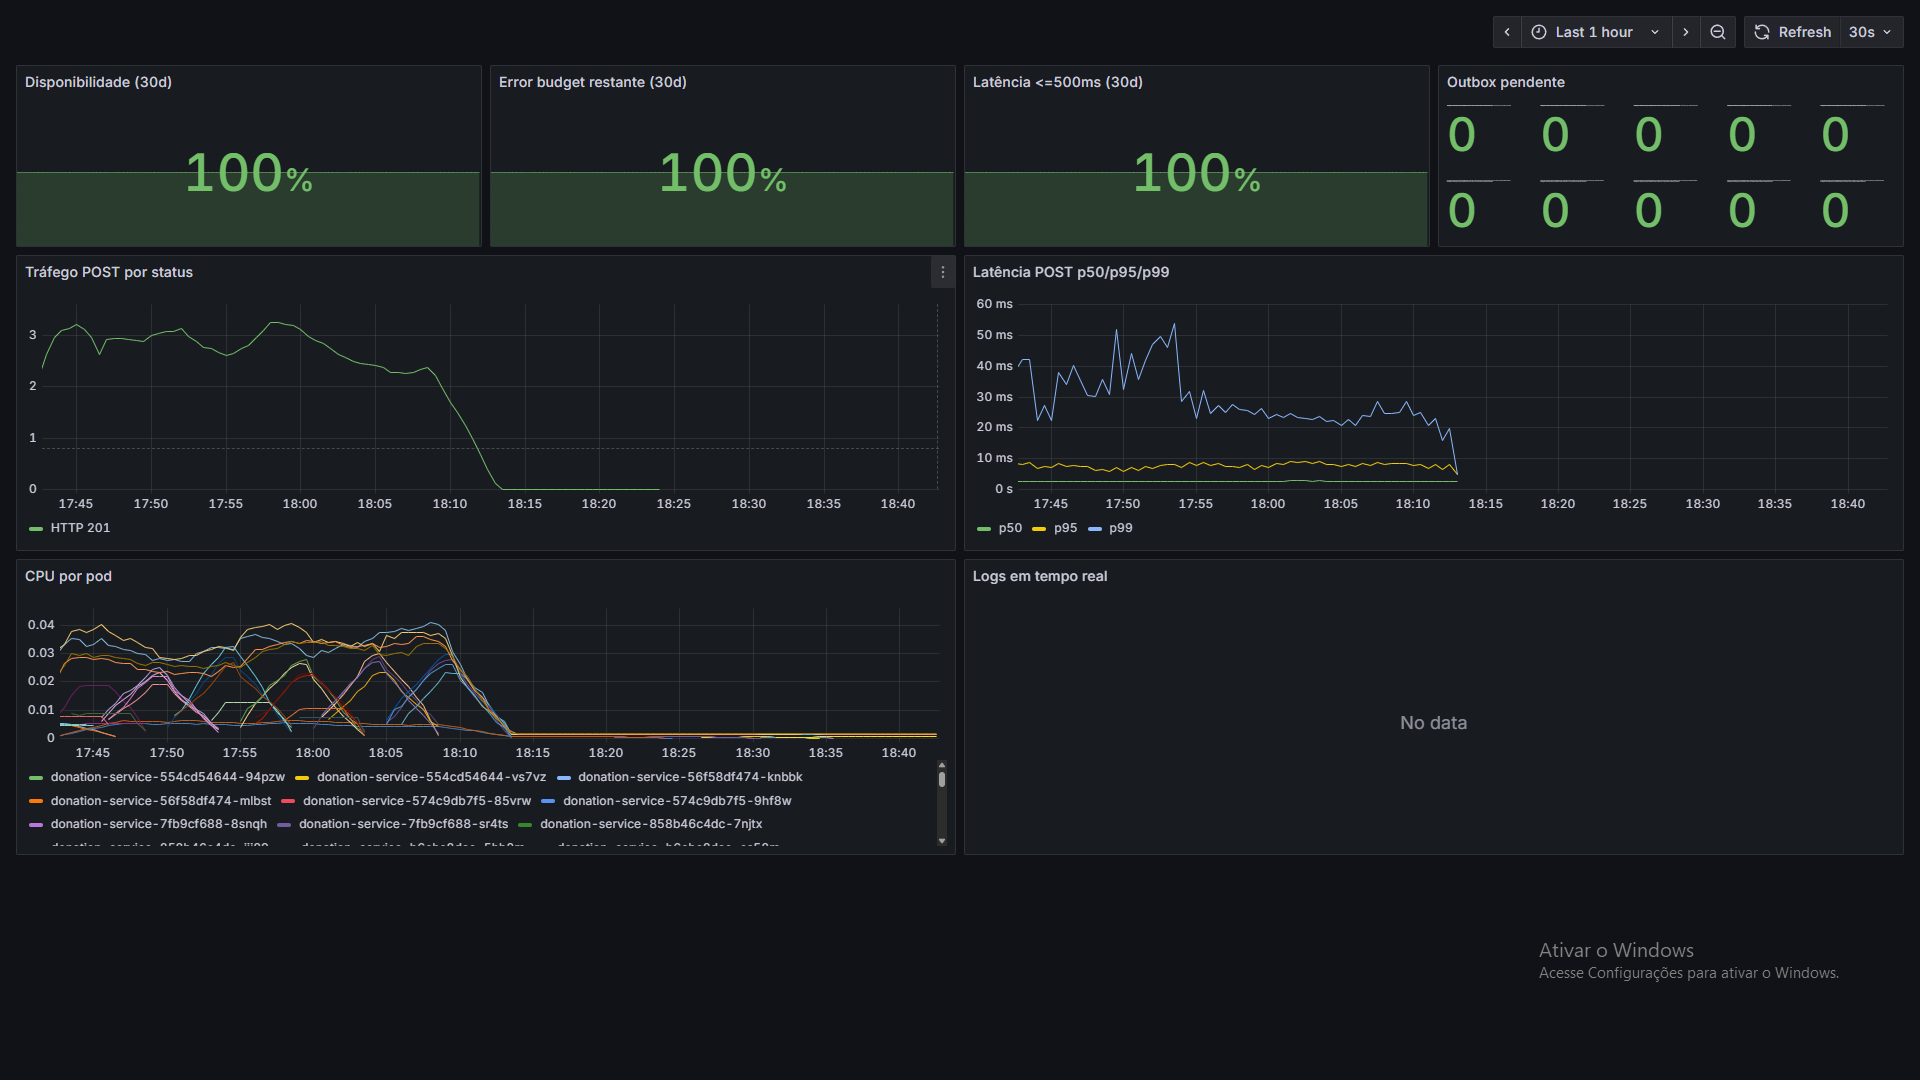
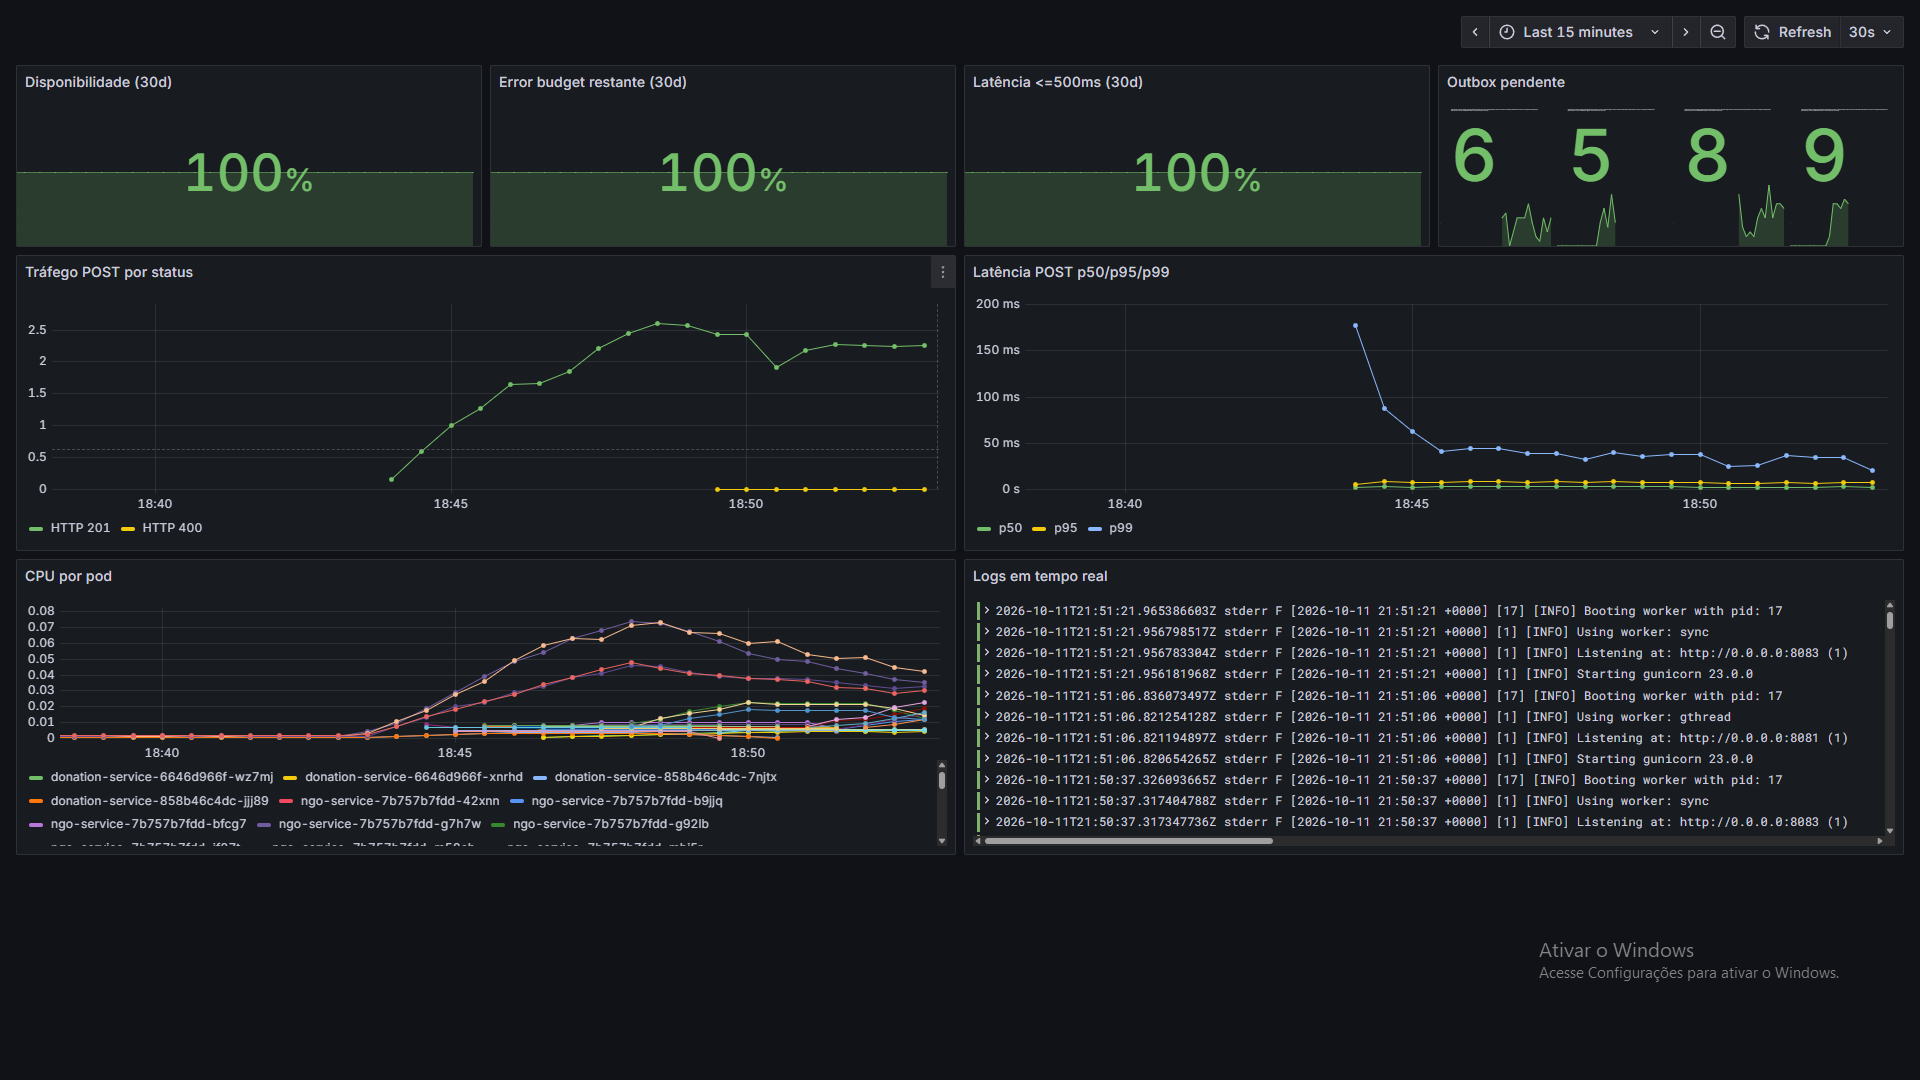
docs(evidencias): add twelve captures from the running environment
All images come from the live cluster on account 713071293995 with load
running, not from a simulation. They cover the CI pipeline and its security
gate, the cluster and its pod density, the ten Argo CD applications, the full
API journey with both negative rules, the SQS queue and its dead letter queue,
the SRE dashboard, the services and traces in New Relic, the cross-region
Velero backup, the FinOps tags and the HPA scaling under load.

Two items remain open and the README says so: the alert chain never fired, and
the Velero restore was not timed.

diff --git a/docs/evidencias/README.md b/docs/evidencias/README.md
@@ -1,20 +1,40 @@
 # Evidências da execução
 
-Esta pasta recebe evidências reais depois do deploy no AWS Academy. Não substituir por imagens simuladas.
+Capturas do ambiente real provisionado na conta AWS Academy `713071293995`, em 11/10/2026.
+Nenhuma imagem é simulada: todas vêm do cluster `solidarytech-production-eks` em operação, com
+carga ativa gerada por `scripts/gerar-carga.ps1`.
 
-Checklist sugerido:
+## Capturadas
 
-1. `01-actions-ci.png` — testes, scan e push aprovados.
-2. `02-eks-nodes.png` — nodes Ready.
-3. `03-argocd.png` — aplicações Synced/Healthy.
-4. `04-api-smoke.png` — NGO, Donation e Volunteer respondendo.
-5. `05-sqs-outbox.png` — evento publicado e backlog zerado.
-6. `06-grafana-slo.png` — dashboard de SLI/SLO.
-7. `07-logs-traces.png` — correlação no Loki/New Relic.
-8. `08-alerta-incidente.png` — alerta e integração ITSM.
-9. `09-velero-backup.png` — backup Completed.
-10. `10-dr-restore.png` — restore validado e tempo medido.
-11. `11-cost-explorer.png` — custos/tags.
-12. `12-hpa-scaling.png` — `kubectl get hpa` e réplicas crescendo sob carga.
+| Arquivo | Conteúdo | Requisito atendido |
+|---|---|---|
+| `01-actions-ci.png` | Pipeline verde do `donation-service` no commit `b8d2d15`, jobs `test-and-scan` e `publish-and-update-gitops` | Fase 3 — CI/CD com DevSecOps |
+| `02-eks-nodes.png` | 3 nodes `Ready` em v1.35.8-eks com `MAX_PODS=110`, pods da plataforma, HPA e PDB | Fase 2 — Kubernetes e orquestração |
+| `03-argocd.png` | 10 Applications `Synced` e `Healthy`, filtros confirmando `Synced 10` / `Healthy 10` | Fase 3 — GitOps |
+| `04-api-smoke.png` | Jornada completa: `POST /ngos` 201, `POST /donations` 201 `APPROVED`, `POST /volunteers` 201, consulta pelo índice secundário, regras negativas 409 e 400, e a fila SQS | Fase 2 — os três data stores e o outbox |
+| `05-sqs-outbox.png` | Fila principal e Dead Letter Queue, com `RedrivePolicy` e DLQ vazia | Fase 2 — mensageria |
+| `06-grafana-slo.png` | Dashboard SRE: disponibilidade, error budget, latência ≤500ms, tráfego por status, p50/p95/p99, outbox pendente, CPU por pod e logs do Loki em tempo real | Fase 5 — SRE e Golden Metrics |
+| `07a-newrelic-services.png` | Os três serviços em **Services - OpenTelemetry**, com response time, throughput e taxa de erro | Fase 4 e 5 — APM |
+| `07b-newrelic-traces.png` | 9.100 traces agrupados por operação, com p95 por rota | Fase 4 e 5 — Distributed Tracing |
+| `09-velero-backup.png` | Schedule de 6h, backup `Completed` com 724 itens e zero erros, `LocationConstraint: us-west-2` | Fase 5 — DR cross-region |
+| `11-finops-tags.png` | Tags obrigatórias declaradas no Terraform e os recursos rastreados por `Project=SolidaryTech` | Fase 5 — FinOps |
+| `12-hpa-scaling.png` | HPA escalando sob carga: `ngo-service` em 108%/70% com 6 réplicas, `volunteer-service` em 92%/70% com 4 | Fase 2 — escalabilidade |
+| `13-govulncheck.png` | Pipeline reprovado pelo `govulncheck` em vulnerabilidades divulgadas no mesmo dia | Fase 3 — regra de bloqueio |
 
-Para cada imagem, registrar data/hora, comando/cenário, resultado esperado e resultado obtido no relatório.
+## Observação sobre a latência
+
+O script de carga, executado do Brasil contra `us-east-1`, reporta p95 em torno de 330 ms. O p95
+medido no servidor é de **6,88 ms** para `POST /donations`, visível em `07b-newrelic-traces.png`, e
+de **8,4 ms** no Prometheus. A diferença é RTT de rede, não do serviço. O SLO de 500 ms é medido
+server-side.
+
+## Pendentes
+
+Dois itens do checklist original não foram capturados porque dependem de cenários que ainda não
+foram executados:
+
+- **`08-alerta-incidente.png`** — a cadeia alerta → PagerDuty → Discord → self-healing está
+  configurada e as três chaves foram validadas isoladamente, mas nenhum alerta real disparou. Exige
+  provocar uma falha controlada até a regra de burn rate entrar em `Firing`.
+- **`10-dr-restore.png`** — o backup está comprovado; o restore cronometrado ainda não foi
+  executado.
